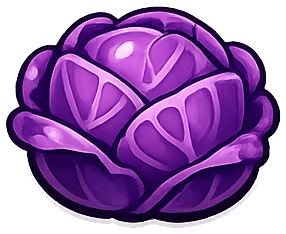
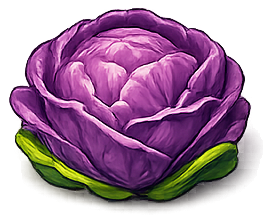
Farm: new item art, real sprite names, tuned hitboxes
Replaces the nine farm sprites with the new set extracted from
"items 3.png" via tools/sprite-editor.html, and tunes their collision
shapes plus several Saigon ones in the hitbox editor.

The extracted files landed as farm/1..9.png with placeholder names, so
they are renamed to seed/sprout/strawberry/blueberry/pepper/cabbage/
watermelon/cauliflower/prizepumpkin here. That rename moves the files,
the items.js sprite paths and display names, AND the nine ITEM_HITBOXES
keys in one step — ITEM_HITBOXES is keyed by sprite path, so renaming
the art without it would silently detach the tuning just done. The
superseded entries for the old art of the same name are dropped so no
key is duplicated.

glass/liq are re-sampled from the new art. They had come through as a
uniform grey (#dddddd/#888888), which is the sprite editor's failure
fallback when getImageData throws on a tainted canvas — that happens
when the tool is opened from file:// instead of the local server.

Verified: 9/9 farm items keep an ITEM_HITBOXES override, no duplicate or
orphaned keys, all maps still play.

diff --git a/config/hitboxes.js b/config/hitboxes.js
@@ -36,11 +36,11 @@ const MAP_HITBOXES = {
     ],
     cornerWalls: [
       { x:   84, y:  473, len:   39, angle: -2.488 },
-      { x:   58, y:  450, len:   32, angle: -2.295 },
-      { x:   38, y:  425, len:   33, angle: -2.200 },
-      { x:   20, y:  398, len:   32, angle: -2.146 },
-      { x:    1, y:  369, len:   37, angle: -2.123 },
-      { x:  -17, y:  340, len:   32, angle: -2.124 },
+      { x:   59, y:  450, len:   32, angle: -2.297 },
+      { x:   38, y:  425, len:   33, angle: -2.204 },
+      { x:   20, y:  398, len:   32, angle: -2.150 },
+      { x:    1, y:  369, len:   37, angle: -2.127 },
+      { x:  -17, y:  340, len:   32, angle: -2.126 },
       { x:  -30, y:  311, len:   32, angle: -1.874 },
       { x:  -36, y:  276, len:   39, angle: -1.654 },
       { x:  -39, y:  238, len:   37, angle: -1.617 },
@@ -67,20 +67,20 @@ const MAP_HITBOXES = {
       { x:  460, y:  237, len:   36, angle:  1.622 },
       { x:  457, y:  272, len:   36, angle:  1.690 },
       { x:  452, y:  306, len:   33, angle:  1.767 },
-      { x:  445, y:  338, len:   31, angle:  1.808 },
-      { x:  436, y:  368, len:   31, angle:  1.937 },
+      { x:  445, y:  338, len:   31, angle:  1.807 },
+      { x:  436, y:  367, len:   31, angle:  1.936 },
       { x:  421, y:  396, len:   34, angle:  2.153 },
       { x:  401, y:  423, len:   32, angle:  2.272 },
-      { x:  379, y:  448, len:   36, angle:  2.332 },
-      { x:  352, y:  473, len:   37, angle:  2.460 },
-      { x:  321, y:  493, len:   37, angle:  2.675 },
-      { x:  287, y:  504, len:   35, angle:  2.938 },
-      { x:  252, y:  509, len:   37, angle:  3.077 },
-      { x:  218, y:  510, len:   32, angle: -3.116 },
-      { x:  186, y:  508, len:   32, angle: -3.036 },
-      { x:  154, y:  503, len:   31, angle: -2.943 },
-      { x:  122, y:  494, len:   36, angle: -2.805 },
-      { x:  102, y:  487, len:    7, angle: -2.678 },
+      { x:  378, y:  448, len:   36, angle:  2.332 },
+      { x:  351, y:  473, len:   37, angle:  2.459 },
+      { x:  320, y:  493, len:   37, angle:  2.674 },
+      { x:  286, y:  505, len:   36, angle:  2.942 },
+      { x:  254, y:  510, len:   30, angle:  3.075 },
+      { x:  222, y:  510, len:   33, angle: -3.123 },
+      { x:  189, y:  508, len:   33, angle: -3.039 },
+      { x:  157, y:  503, len:   32, angle: -2.945 },
+      { x:  127, y:  495, len:   30, angle: -2.824 },
+      { x:  106, y:  488, len:   14, angle: -2.701 },
     ],
   },
   kyoto: {
@@ -583,22 +583,22 @@ const MAP_HITBOXES = {
       { x:  233, y:   14, len:   40, angle: -0.016 },
       { x:  269, y:   13, len:   32, angle: -0.031 },
       { x:  301, y:   12, len:   31, angle: -0.026 },
-      { x:  335, y:   11, len:   38, angle:  0.003 },
-      { x:  371, y:   13, len:   35, angle:  0.113 },
+      { x:  335, y:   12, len:   38, angle:  0.003 },
+      { x:  371, y:   14, len:   35, angle:  0.113 },
       { x:  394, y:   33, len:   37, angle:  1.276 },
       { x:  401, y:   68, len:   34, angle:  1.455 },
       { x:  405, y:  103, len:   37, angle:  1.429 },
       { x:  411, y:  142, len:   41, angle:  1.423 },
       { x:  417, y:  180, len:   35, angle:  1.412 },
-      { x:  422, y:  212, len:   32, angle:  1.409 },
+      { x:  422, y:  213, len:   32, angle:  1.409 },
       { x:  427, y:  245, len:   34, angle:  1.414 },
       { x:  433, y:  279, len:   35, angle:  1.423 },
       { x:  438, y:  313, len:   34, angle:  1.435 },
       { x:  442, y:  345, len:   31, angle:  1.452 },
       { x:  445, y:  381, len:   41, angle:  1.490 },
       { x:  447, y:  421, len:   39, angle:  1.560 },
-      { x:  447, y:  457, len:   33, angle:  1.614 },
-      { x:  445, y:  490, len:   33, angle:  1.637 },
+      { x:  447, y:  458, len:   33, angle:  1.614 },
+      { x:  445, y:  490, len:   32, angle:  1.637 },
     ],
   },
 };
@@ -660,13 +660,21 @@ const ITEM_HITBOXES = {
   'assets/images/paris/parisbrest.png': { shape: 'capsule', w: 1.138, h: 0.437, rot: -0.024, dx: -0.043, dy: 0.032 },
   'assets/images/paris/charlotte.png': { shape: 'capsule', w: 1.121, h: 0.474, dx: -0.031, dy: -0.014 },
   'assets/images/paris/strawberrycake.png': { shape: 'capsule', w: 0.972, h: 0.44, dx: -0.019, dy: 0.116 },
-  'assets/images/farm/seed.png': { bodyRatio: 0.731, dx: 0.023, dy: -0.2 },
-  'assets/images/farm/sprout.png': { shape: 'capsule', w: 0.808, h: 0.266, dx: 0.06, dy: 0.268 },
-  'assets/images/farm/strawberry.png': { bodyRatio: 0.744, dx: -0.005, dy: -0.214 },
-  'assets/images/farm/blueberry.png': { bodyRatio: 0.735, dx: -0.003, dy: -0.22 },
-  'assets/images/farm/pepper.png': { bodyRatio: 0.778, dy: -0.237 },
-  'assets/images/farm/cabbage.png': { bodyRatio: 0.783, dx: 0.026, dy: -0.188 },
-  'assets/images/farm/watermelon.png': { bodyRatio: 0.772, dy: -0.206 },
-  'assets/images/farm/cauliflower.png': { shape: 'capsule', w: 0.908, h: 0.712, dx: 0.014, dy: -0.208 },
-  'assets/images/farm/prizepumpkin.png': { shape: 'capsule', w: 0.971, h: 0.636, dx: -0.003, dy: -0.123 },
+  'assets/images/farm/seed.png': { bodyRatio: 0.667, dx: -0.046, dy: -0.271 },
+  'assets/images/farm/sprout.png': { shape: 'capsule', w: 0.68, h: 0.36, dx: -0.043, dy: 0.119 },
+  'assets/images/farm/strawberry.png': { bodyRatio: 0.681, dx: -0.018, dy: -0.277 },
+  'assets/images/farm/blueberry.png': { bodyRatio: 0.699, dx: -0.022, dy: -0.196 },
+  'assets/images/farm/pepper.png': { bodyRatio: 0.742, dx: -0.046, dy: -0.282 },
+  'assets/images/farm/cabbage.png': { bodyRatio: 0.727, dx: -0.005, dy: -0.23 },
+  'assets/images/farm/watermelon.png': { bodyRatio: 0.764, dx: -0.033, dy: -0.254 },
+  'assets/images/farm/cauliflower.png': { shape: 'capsule', w: 0.879, h: 0.712, dx: -0.008, dy: -0.241 },
+  'assets/images/farm/prizepumpkin.png': { shape: 'capsule', w: 0.93, h: 0.599, dx: -0.023, dy: -0.178 },
+  'assets/images/saigon/bowl-small.png': { bodyRatio: 0.802, dx: 0.004, dy: -0.243 },
+  'assets/images/saigon/bowl-large.png': { bodyRatio: 0.86, dx: -0.002, dy: -0.282 },
+  'assets/images/saigon/pot.png': { bodyRatio: 0.869, dx: -0.013, dy: -0.205 },
+  'assets/images/saigon/hoisin.png': { bodyRatio: 0.358, dx: 0.029, dy: 0.293 },
+  'assets/images/saigon/bean-sprouts.png': { shape: 'capsule', w: 0.535, h: 0.789, dx: 0.009, dy: -0.321 },
+  'assets/images/saigon/thai-basil.png': { bodyRatio: 0.667 },
+  'assets/images/saigon/star-anise.png': { bodyRatio: 0.842, dx: 0.028, dy: -0.381 },
+  'assets/images/saigon/lime.png': { bodyRatio: 0.75, dx: 0.008, dy: -0.244 },
 };

diff --git a/config/items.js b/config/items.js
@@ -108,15 +108,15 @@ const PARIS_ITEMS = [
 // are STARTING points sized to the round body — trace/tune each in
 // tools/hitbox-editor.html before shipping. Background art still pending.
 const FARM_ITEMS = [
-  { name:'seed',         r:15, glass:'#7a4a24', liq:'#9a5a2c', sprite:'assets/images/farm/seed.png',         bodyRatio:0.90, vis:0.80 },
-  { name:'sprout',       r:20, glass:'#7ec84f', liq:'#3f8f2f', sprite:'assets/images/farm/sprout.png',       bodyRatio:0.90, vis:0.83 },
-  { name:'strawberry',   r:26, glass:'#e5382b', liq:'#c22a20', sprite:'assets/images/farm/strawberry.png',   bodyRatio:0.90, vis:0.88 },
-  { name:'blueberries',  r:31, glass:'#4646a8', liq:'#33337a', sprite:'assets/images/farm/blueberry.png',    bodyRatio:0.90, vis:0.81 },
-  { name:'bell pepper',  r:37, glass:'#ffcf2e', liq:'#efb000', sprite:'assets/images/farm/pepper.png',       bodyRatio:0.90, vis:0.85 },
-  { name:'purple cabbage', r:44, glass:'#8f43b3', liq:'#6b2f8c', sprite:'assets/images/farm/cabbage.png',    bodyRatio:0.90, vis:0.78 },
-  { name:'watermelon',   r:52, glass:'#3fa04a', liq:'#2c7838', sprite:'assets/images/farm/watermelon.png',   bodyRatio:0.90, vis:0.86 },
-  { name:'cauliflower',  r:60, glass:'#eef0dd', liq:'#cfe0ad', sprite:'assets/images/farm/cauliflower.png',  bodyRatio:0.90, vis:0.80 },
-  { name:'prize pumpkin',r:71, glass:'#ff9a2e', liq:'#e87a1f', sprite:'assets/images/farm/prizepumpkin.png', bodyRatio:0.90, vis:0.80 },
+  { name:'seed', r:15, glass:'#e0cbc3', liq:'#93472a', sprite:'assets/images/farm/seed.png', bodyRatio:0.85, vis:0.88 },
+  { name:'sprout', r:18, glass:'#d8d3bc', liq:'#776312', sprite:'assets/images/farm/sprout.png', bodyRatio:0.85, vis:0.83 },
+  { name:'strawberry', r:22, glass:'#edc9be', liq:'#c24117', sprite:'assets/images/farm/strawberry.png', bodyRatio:0.85, vis:0.89 },
+  { name:'blueberries', r:27, glass:'#c6cdd9', liq:'#364d7a', sprite:'assets/images/farm/blueberry.png', bodyRatio:0.85, vis:0.84 },
+  { name:'bell pepper', r:33, glass:'#f4e4bc', liq:'#d9a010', sprite:'assets/images/farm/pepper.png', bodyRatio:0.85, vis:0.88 },
+  { name:'purple cabbage', r:40, glass:'#dacad7', liq:'#7b4372', sprite:'assets/images/farm/cabbage.png', bodyRatio:0.85, vis:0.78 },
+  { name:'watermelon', r:48, glass:'#cedbbd', liq:'#518116', sprite:'assets/images/farm/watermelon.png', bodyRatio:0.85, vis:0.87 },
+  { name:'cauliflower', r:58, glass:'#e6ebd1', liq:'#a7b95d', sprite:'assets/images/farm/cauliflower.png', bodyRatio:0.85, vis:0.8 },
+  { name:'prize pumpkin', r:71, glass:'#e6d4c5', liq:'#a86631', sprite:'assets/images/farm/prizepumpkin.png', bodyRatio:0.85, vis:0.82 },
 ];
 
 // Happy Hour mode: the receipt merge chain, shared by every map. Serving a
